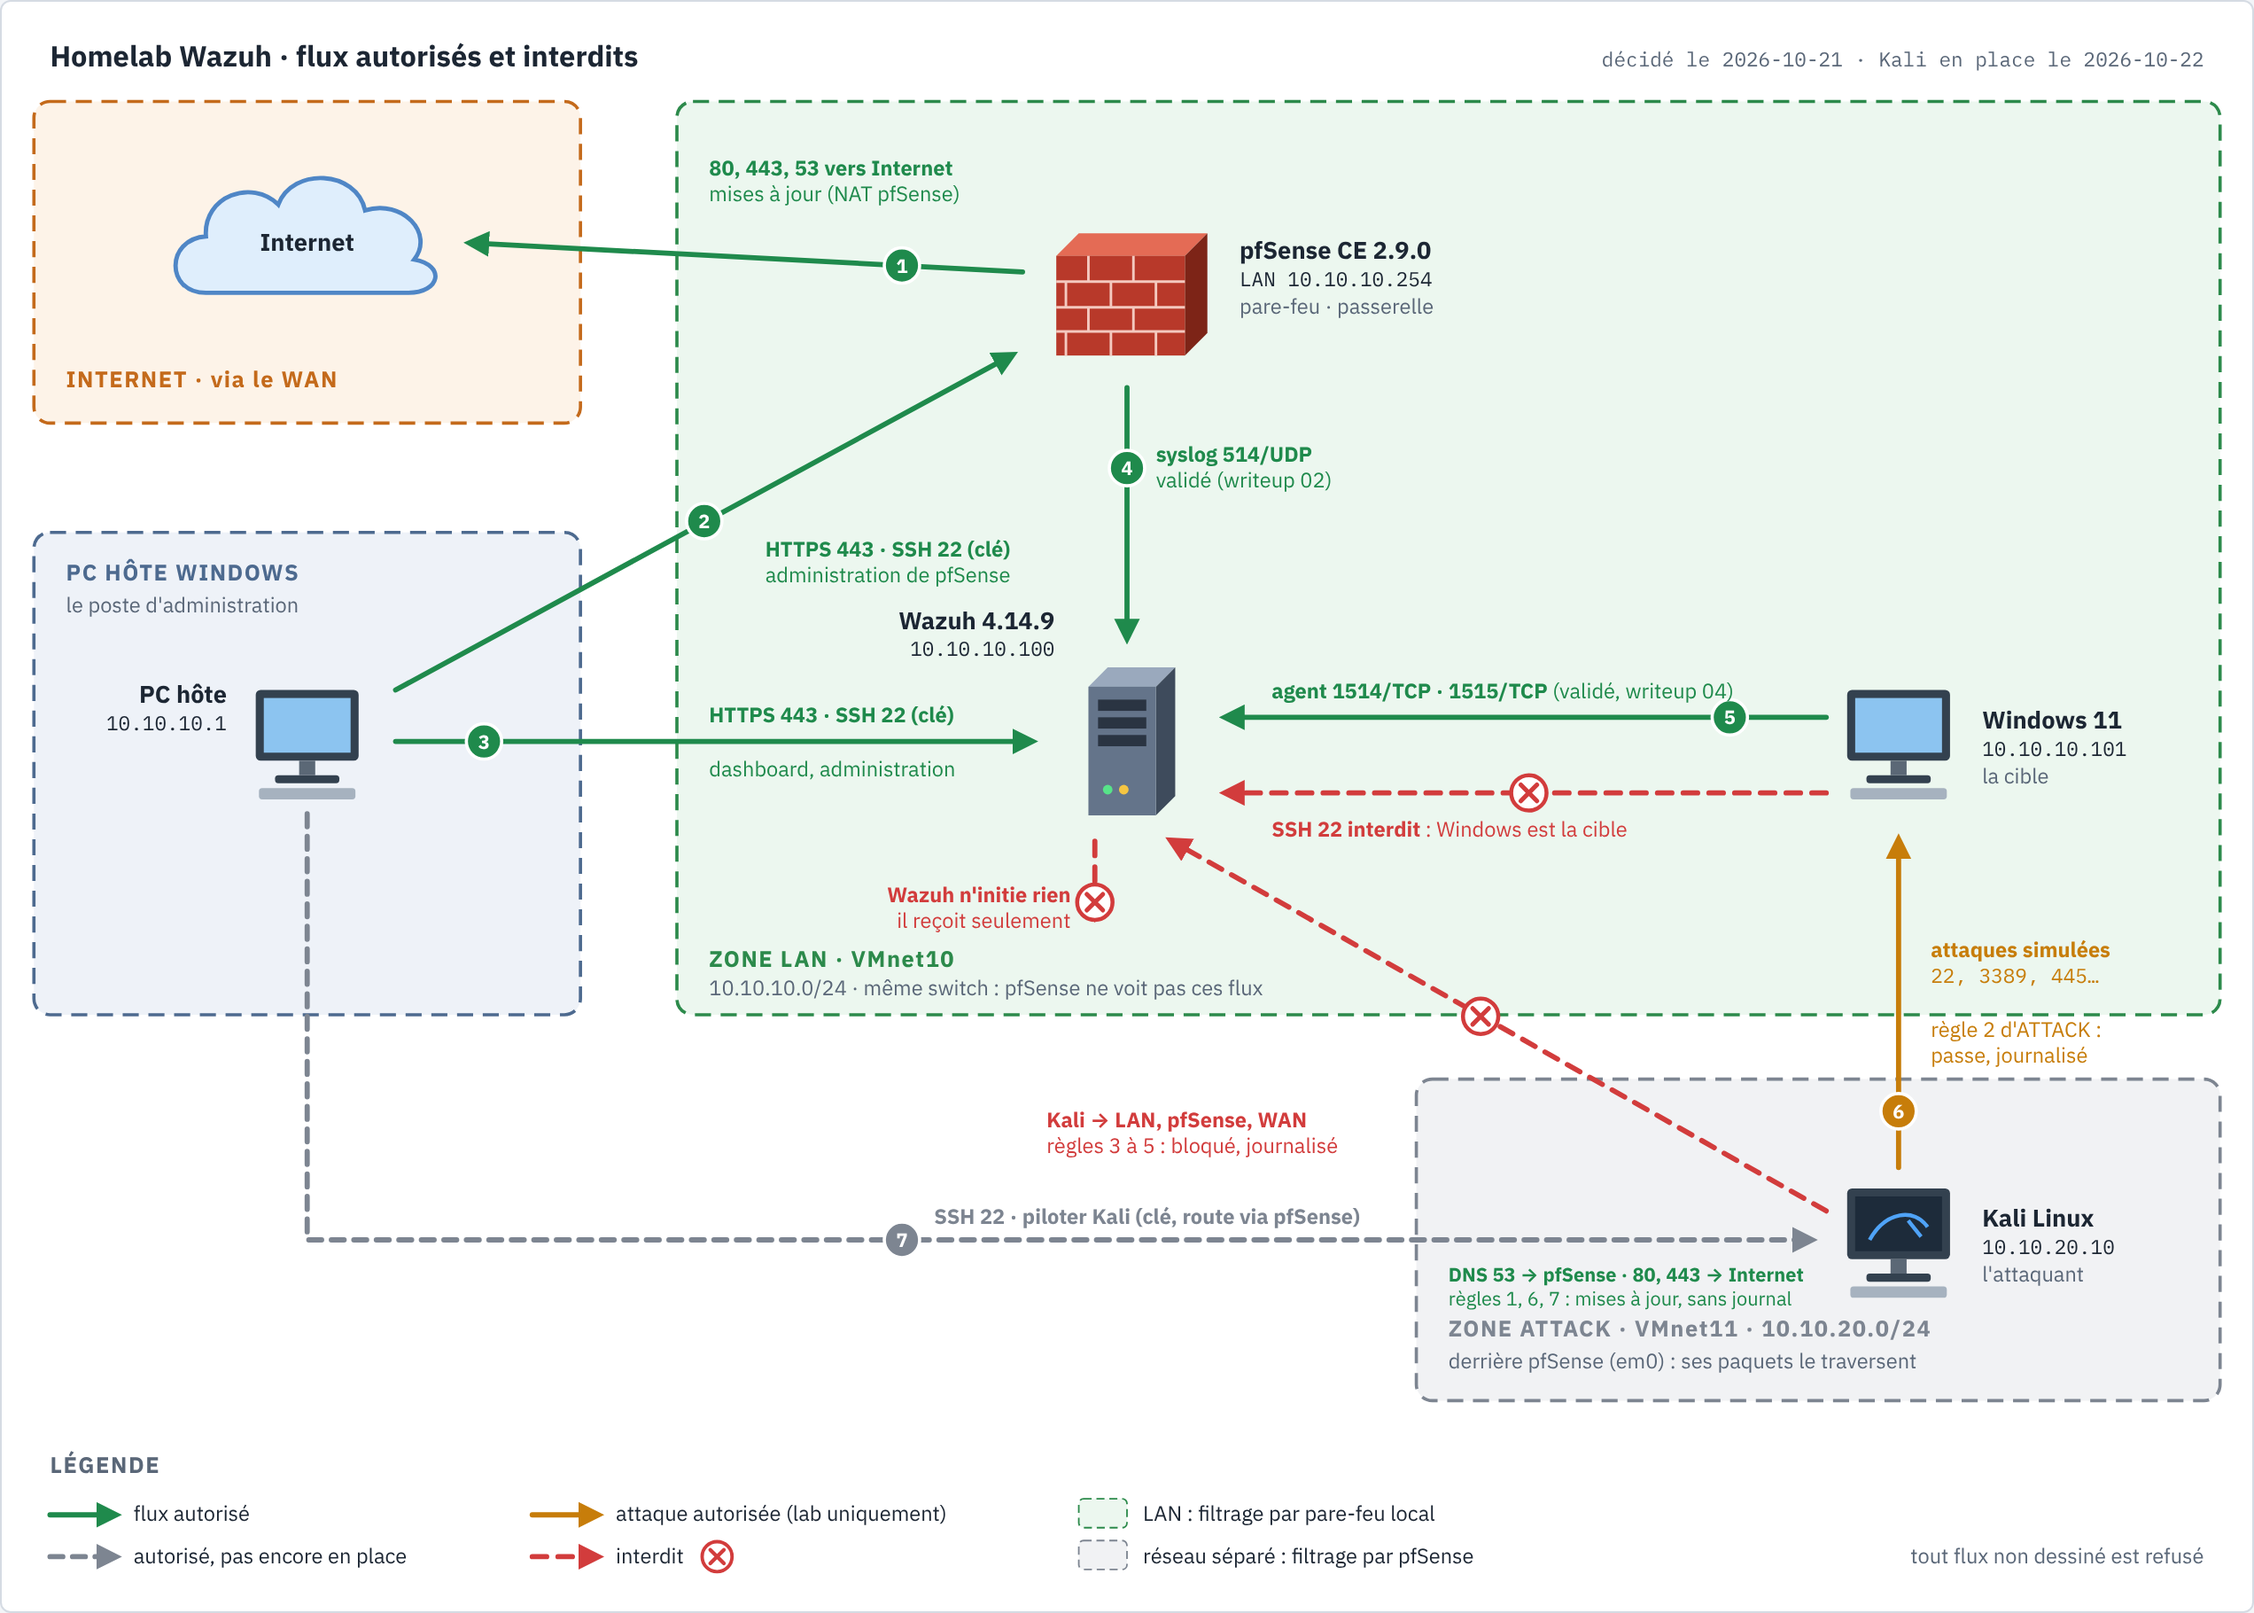
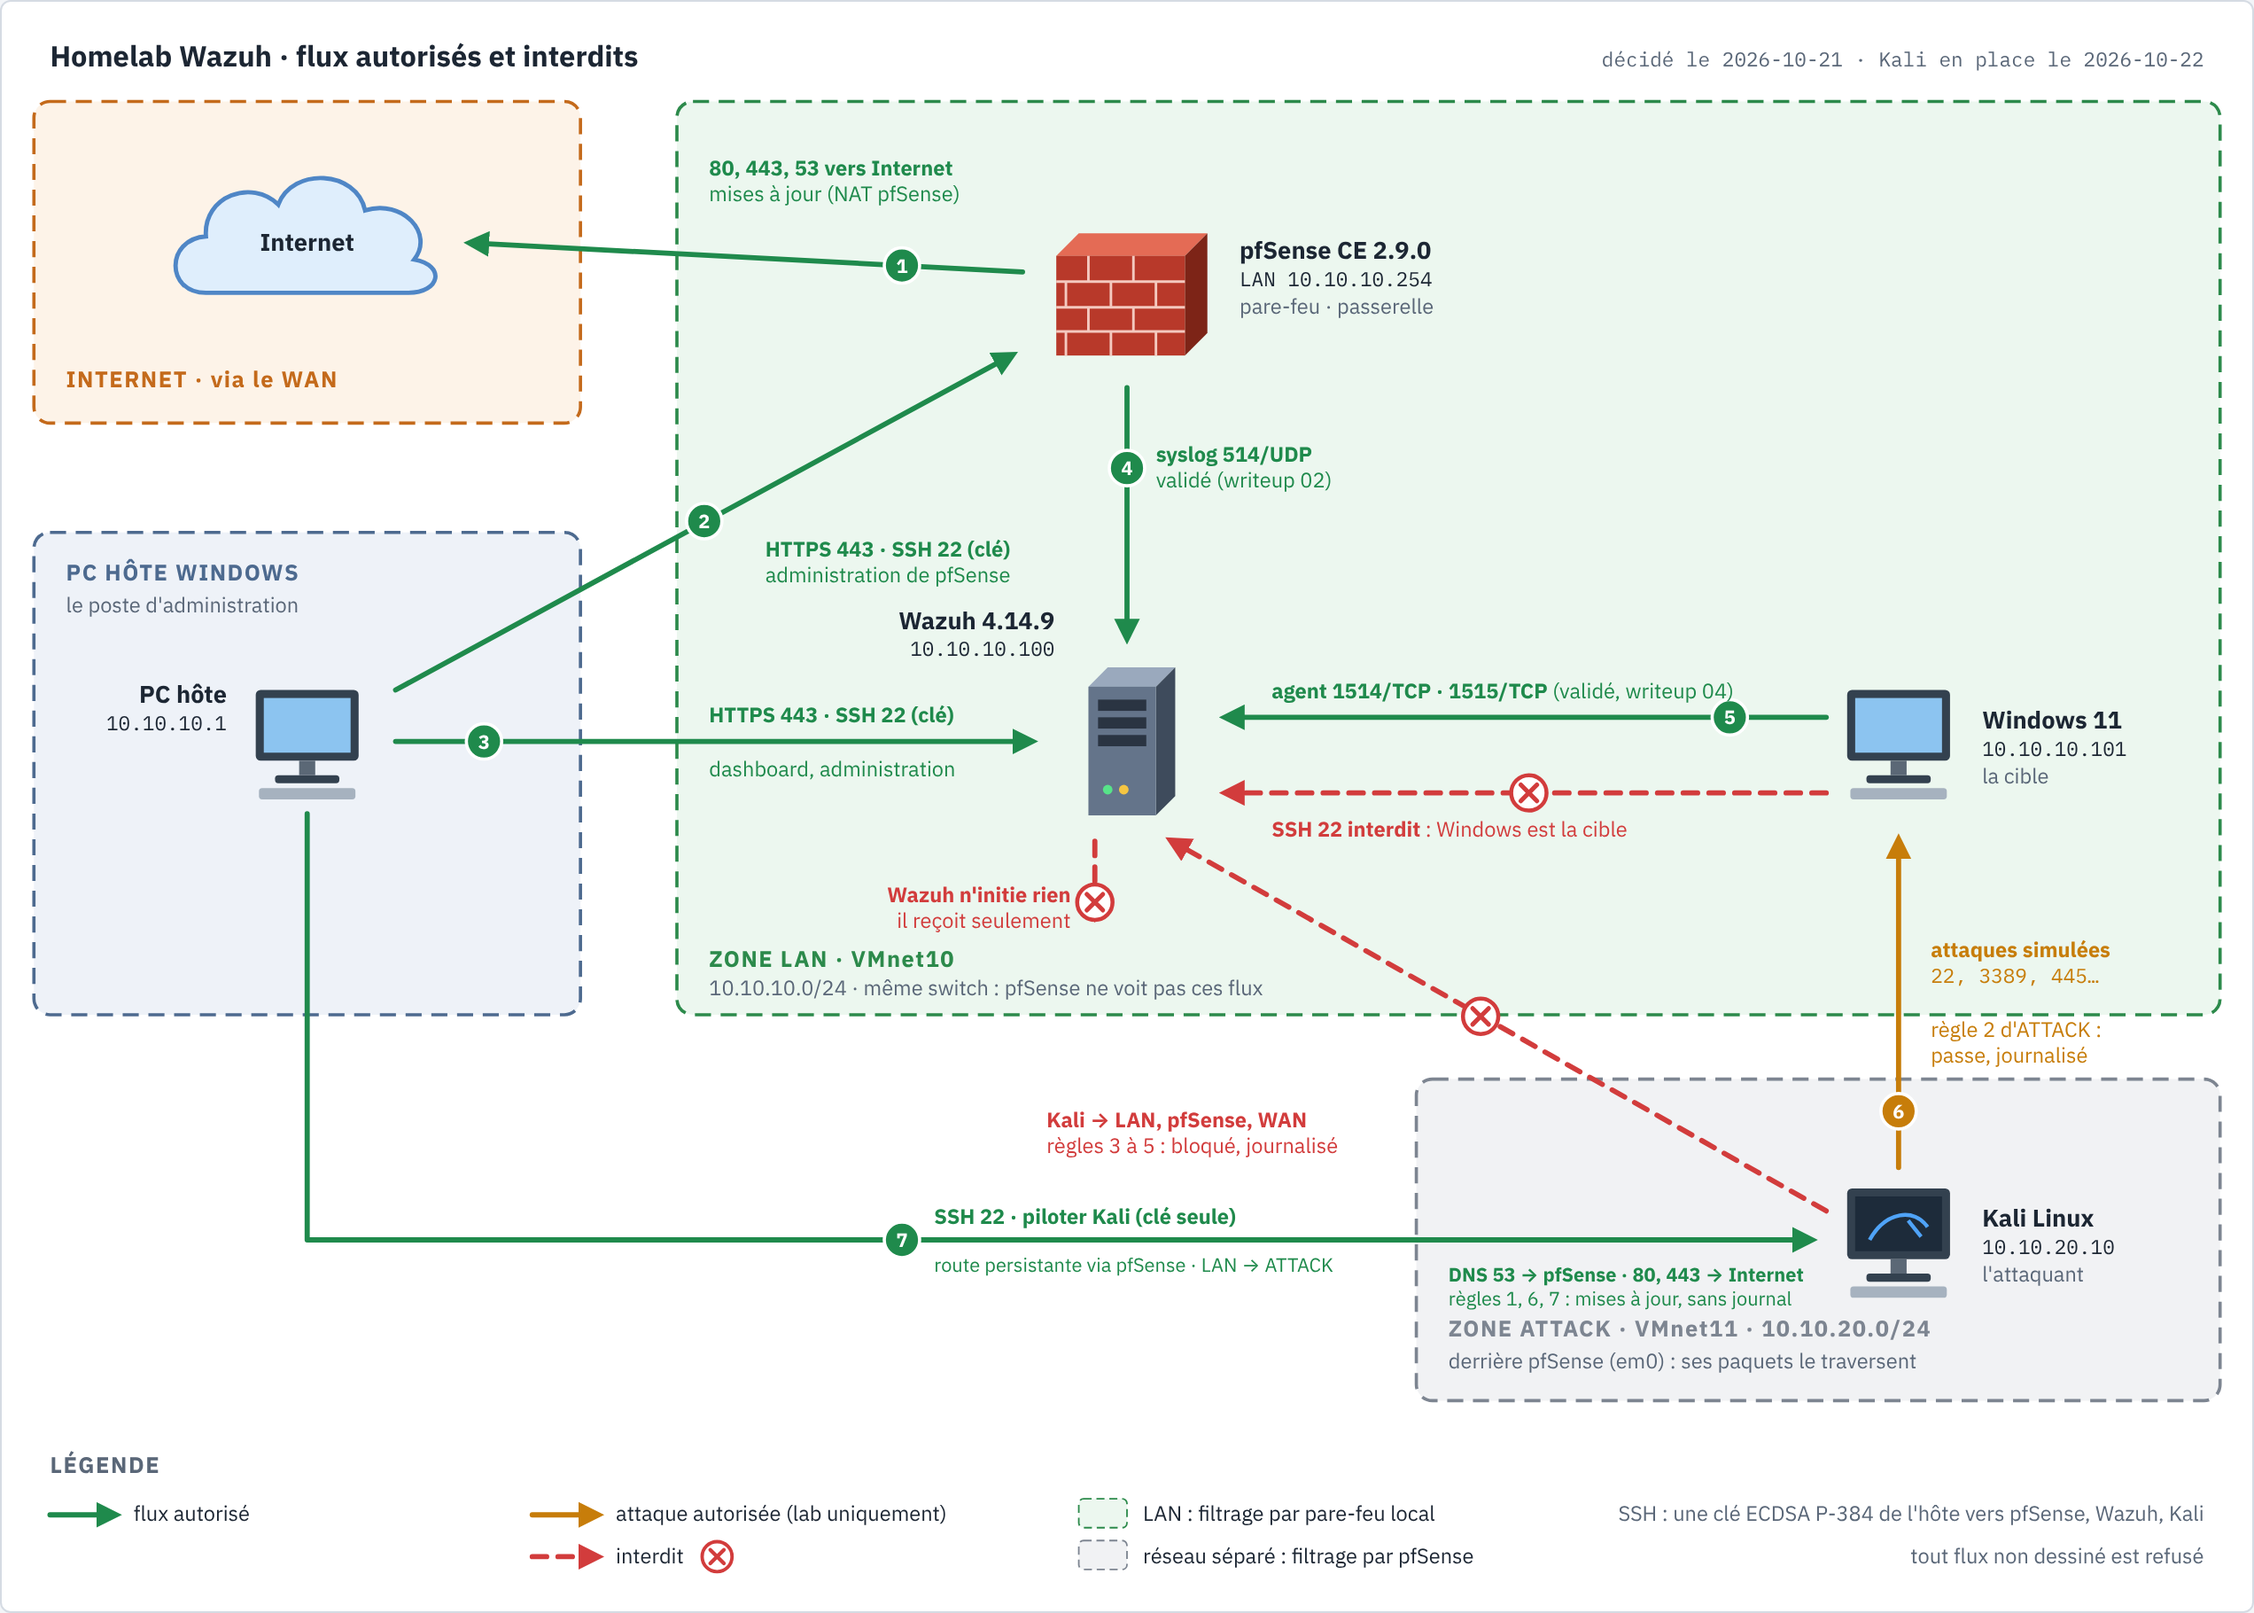
docs: schémas, SSH hôte → Kali en place (clé ECDSA, route via pfSense, table d'états)
Claude-Session: https://claude.ai/code/session_01MBU1jtkjzi7DSb5r2363aT

diff --git a/docs/diagrams/flux-lab.html b/docs/diagrams/flux-lab.html
@@ -84,7 +84,7 @@ footer { color: var(--muted); font-size: 13px; }
 
   <figure id="flux">
     <svg viewBox="0 0 1400 1000" role="img" aria-labelledby="svg-title">
-      <title id="svg-title">Matrice des flux du homelab Wazuh : flux autorisés, interdits et prévus entre l'hôte, pfSense, Wazuh, Windows 11 et Kali</title>
+      <title id="svg-title">Matrice des flux du homelab Wazuh : flux autorisés et interdits entre l'hôte, pfSense, Wazuh, Windows 11 et Kali</title>
       <defs>
         <marker id="m-ok" viewBox="0 0 10 10" refX="7" refY="5" markerWidth="5" markerHeight="5" orient="auto-start-reverse"><path d="M0 0 L10 5 L0 10 z" style="fill: var(--f-ok)"/></marker>
         <marker id="m-atk" viewBox="0 0 10 10" refX="7" refY="5" markerWidth="5" markerHeight="5" orient="auto-start-reverse"><path d="M0 0 L10 5 L0 10 z" style="fill: var(--f-atk)"/></marker>
@@ -158,7 +158,7 @@ footer { color: var(--muted); font-size: 13px; }
       <path class="flow ok" d="M700 240 V395" marker-end="url(#m-ok)"/>
       <path class="flow ok" d="M1135 445 H762" marker-end="url(#m-ok)"/>
       <path class="flow atk" d="M1180 725 V522" marker-end="url(#m-atk)"/>
-      <path class="flow plan" d="M190 505 V770 H1125" marker-end="url(#m-plan)"/>
+      <path class="flow ok" d="M190 505 V770 H1125" marker-end="url(#m-ok)"/>
 
       <!-- Flux interdits -->
       <path class="flow no" d="M1135 492 H762" marker-end="url(#m-no)"/>
@@ -233,14 +233,15 @@ footer { color: var(--muted); font-size: 13px; }
       <text x="665" y="560" text-anchor="end" class="b t-no">Wazuh n'initie rien</text>
       <text x="665" y="576" text-anchor="end" class="t-no">il reçoit seulement</text>
 
-      <g class="badge" transform="translate(560 770)"><circle r="11" style="fill: var(--f-plan)"/><text>7</text></g>
-      <text x="580" y="760" class="b t-plan">SSH 22 · piloter Kali (clé, route via pfSense)</text>
+      <g class="badge" transform="translate(560 770)"><circle r="11" style="fill: var(--f-ok)"/><text>7</text></g>
+      <text x="580" y="760" class="b t-ok">SSH 22 · piloter Kali (clé seule)</text>
+      <text x="580" y="790" class="t-ok" style="font-size: 12px">route persistante via pfSense · LAN → ATTACK</text>
 
       <!-- Légende -->
       <g transform="translate(30 915)">
         <text x="0" y="0" class="ztitle muted">LÉGENDE</text>
         <path class="flow ok" d="M0 26 H40" marker-end="url(#m-ok)"/><text x="52" y="30">flux autorisé</text>
-        <path class="flow plan" d="M0 52 H40" marker-end="url(#m-plan)"/><text x="52" y="56">autorisé, pas encore en place</text>
+        <text x="1340" y="30" text-anchor="end" class="muted">SSH : une clé ECDSA P-384 de l'hôte vers pfSense, Wazuh, Kali</text>
         <path class="flow atk" d="M300 26 H340" marker-end="url(#m-atk)"/><text x="352" y="30">attaque autorisée (lab uniquement)</text>
         <path class="flow no" d="M300 52 H340" marker-end="url(#m-no)"/><text x="352" y="56">interdit</text>
         <use href="#x-no" x="404" y="41" width="22" height="22"/>
@@ -262,7 +263,7 @@ footer { color: var(--muted); font-size: 13px; }
         <li><strong>Windows 11 → Wazuh</strong> 1514 et 1515/TCP : l'agent, en place (writeup 04).</li>
         <li><strong>Kali → Windows 11</strong> : les attaques des scénarios, dans le lab seulement. Règle 2 de l'interface ATTACK, journalisée.</li>
         <li><strong>Kali → pfSense</strong> 53 et <strong>Internet</strong> 80, 443 : DNS et mises à jour (règles 1, 6, 7), sans journal.</li>
-        <li><strong>Hôte → Kali</strong> 22 par clé (<code>ssh siem-kali</code>). L'hôte n'a pas de carte sur VMnet11 : il passe par pfSense grâce à une route vers <code>10.10.20.0/24</code> par <code>10.10.10.254</code> (writeup 05, § 2.7). Kali ne peut pas ouvrir de connexion vers l'hôte (règle 3).</li>
+        <li><strong>Hôte → Kali</strong> 22 par clé (<code>ssh siem-kali</code>). L'hôte n'a pas de carte sur VMnet11 : il passe par pfSense grâce à une route vers <code>10.10.20.0/24</code> par <code>10.10.10.254</code> (writeup 05, § 2.7). pfSense laisse passer le SSH de LAN vers ATTACK et garde la connexion dans sa table d'états : les réponses de Kali reviennent, mais Kali ne peut pas ouvrir de connexion vers l'hôte (règle 3).</li>
       </ol>
     </section>
     <section class="card" style="--c: var(--f-no)">

diff --git a/docs/diagrams/regles-attack.html b/docs/diagrams/regles-attack.html
@@ -163,6 +163,10 @@ footer { color: var(--muted); font-size: 13px; }
       <h2>L'angle mort assumé</h2>
       <p>Les règles 1, 6 et 7 (DNS, HTTP, HTTPS vers Internet) ne journalisent pas, pour éviter le bruit des mises à jour. Conséquence pour l'analyste : une exfiltration de Kali en HTTPS (paquet D) n'apparaît pas dans Wazuh. À activer le temps d'un scénario si besoin.</p>
     </section>
+    <section class="card" style="--c: var(--pass)">
+      <h2>Et le SSH de l'hôte vers Kali ?</h2>
+      <p>L'hôte pilote Kali par <code>ssh siem-kali</code> (clé seule), grâce à une route persistante vers <code>10.10.20.0/24</code> par <code>10.10.10.254</code>. Le SYN entre par l'interface <strong>LAN</strong> et passe par sa règle « allow LAN to any » ; pfSense crée une entrée dans sa table d'états. Les réponses de Kali correspondent à cette entrée et repassent <strong>sans être évaluées par les règles ATTACK</strong>. Si Kali tente d'ouvrir une connexion vers l'hôte, il n'y a pas d'entrée d'état : la règle 3 la bloque.</p>
+    </section>
   </div>
 
   <footer>Source : <code>docs/diagrams/regles-attack.html</code> du dépôt SIEM_PROJECT ; règles dans <code>configs/pfsense/regles-attack.php</code> et le writeup 05. Kali a une réservation DHCP sur pfSense : <code>10.10.20.10</code>. Ports de destination des exemples choisis pour l'illustration.</footer>
